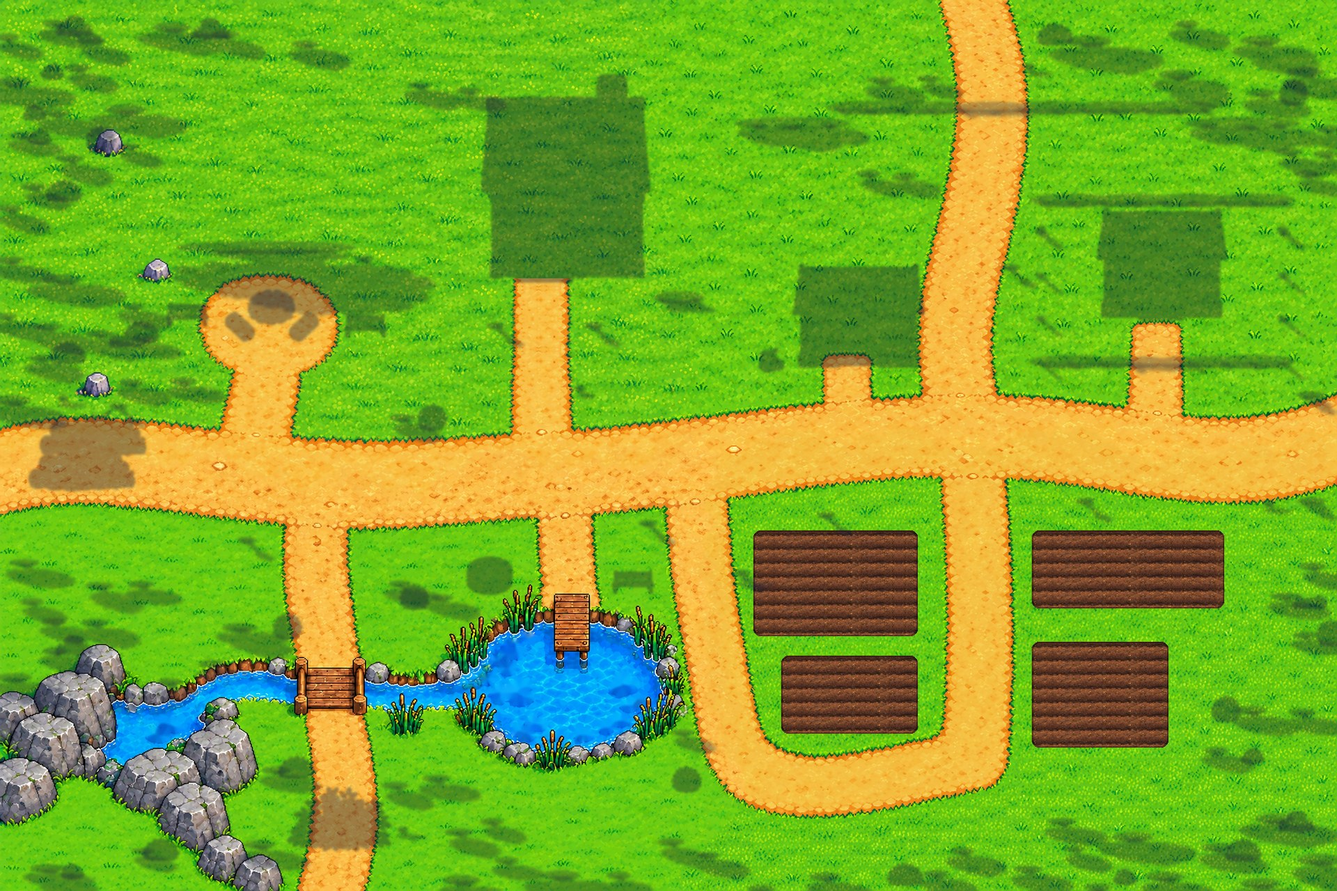
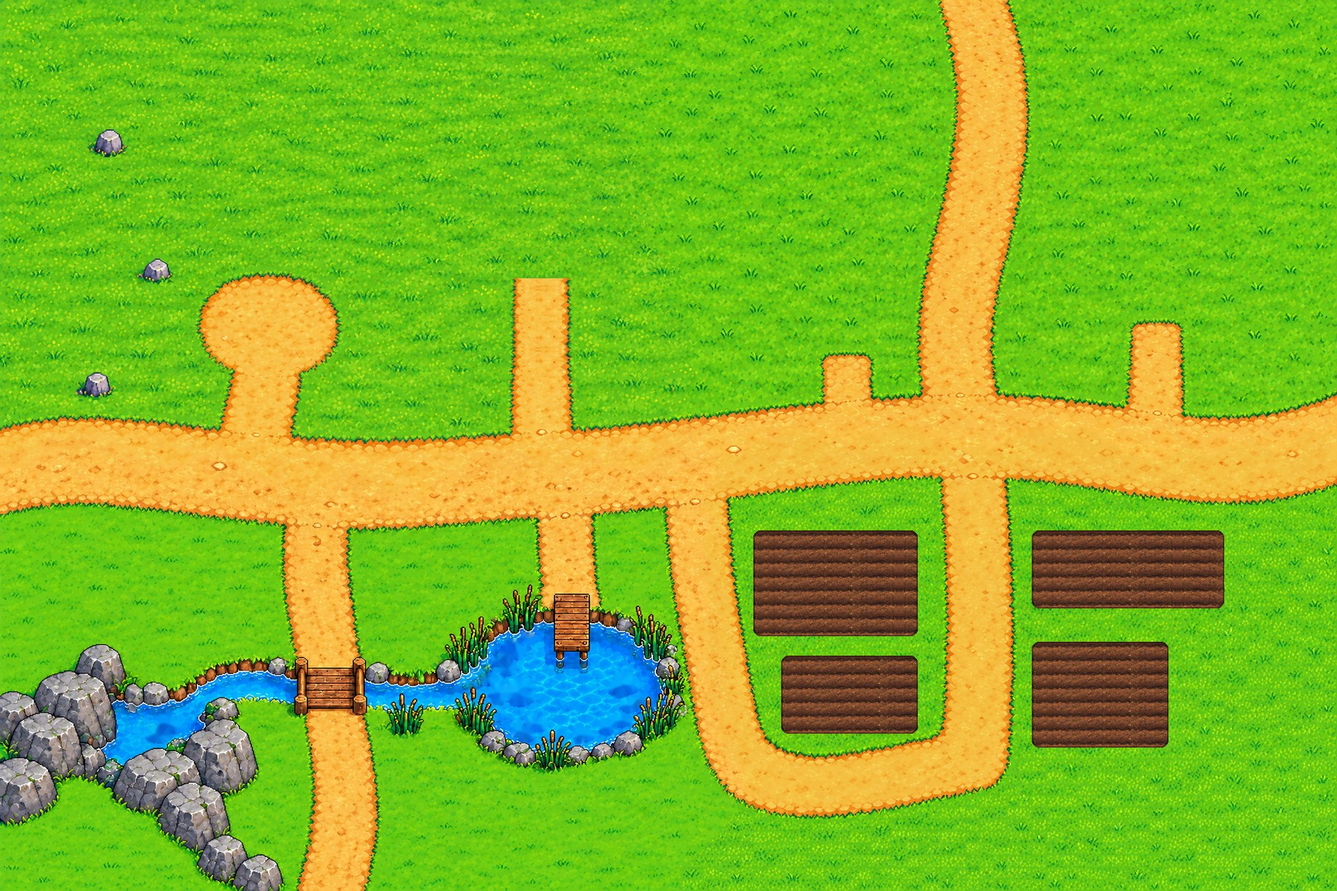
1.18: live shadows on the G9 scene by the hour and the rain (long at dawn and dusk, short at noon, faint moon shadow, none on open water), laid onto the map's ground only when something changes

diff --git a/index.html b/index.html
@@ -121,7 +121,7 @@ window.DEFER_Q=[];window.DEFER_ON=true;window.DEFER_DONE=new Set();
 
 // ===== Lantern Academy (LA) · index.html · formerly "Leah พาเพลิน 2D" =====
 // Files are loaded by name. If a file is missing the game draws a simple stand-in and keeps running.
-const VERSION='Lantern Academy 1.17';
+const VERSION='Lantern Academy 1.18';
 const T=32;
 const FILES={laLogo:'logo.png',ground:'tiles-village.png',cliff:'tiles-cliff.png',water:'tiles-water.png',cobble:'tiles-cobble.png',cave:'tiles-cave.png',
   props:'props-village.png',mprops:'props-mountain.png',cprops:'props-cave.png',dprops:'props-dungeon.png',farm:'props-farm.png',
@@ -3538,7 +3538,7 @@ let G9B=null;
   const m=newMap('farm','town',G9.w,G9.h,79);m.nameKey='g9';m.g9=1;m.g9b=1;m._obj1=1;m.painted='mapG9b';const h=farmSave(),cl=new Set(h.farm.cleared||[]),SH=['g9bA','g9bB'];
   for(let y=0;y<G9.h;y++)for(let x=0;x<G9.w;x++)if(G9.grid[y*G9.w+x]==='1')m.SOLID.add(key(x,y));
   // every standing thing: its own picture, drawn in walking order with the player (cs:0 = no engine shadow, the soft shadows are already in the ground picture)
-  for(const [p,x,by,fl,sw] of G9B.inst){const r=G9B.rects[p];m.objs.push({img:SH[r[4]],sx:r[0],sy:r[1],sw:r[2],sh:r[3],x:x+r[2]/2,y:by,tall:1,cs:0,flip:fl?1:0,g9b:1,swA:sw|0,ph:(x*.37+by*.11)%6.283})}
+  for(const [p,x,by,fl,sw,hz,shd,f0,fw] of G9B.inst){const r=G9B.rects[p];m.objs.push({img:SH[r[4]],sx:r[0],sy:r[1],sw:r[2],sh:r[3],x:x+r[2]/2,y:by,tall:1,cs:0,flip:fl?1:0,g9b:1,swA:sw|0,ph:(x*.37+by*.11)%6.283,hz:hz|0,shOn:shd?1:0,f0:f0|0,fw:fw|0})}
   if(G9B.gate&&G9B.gate.inst&&G9B.gate.inst.length===2){const Gt=G9B.gate,Lf=m.objs[Gt.inst[0]],Rt=m.objs[Gt.inst[1]];for(const [x,y] of Gt.tiles)m.SOLID.delete(key(x,y));   // the gate is never a wall: it swings open as you come up to it
     m._gate={L:Lf,R:Rt,xl:Lf.x-Lf.sw/2,xr:Rt.x+Rt.sw/2,shut:[Lf.sx,Lf.sy,Lf.sw,Lf.sh,Lf.img],open:false,cx:(Gt.x0+Gt.x1)/2,cy:Gt.y}}
   try{for(const [nm,ix] of Object.entries(G9B.tapInst||{}))if(ix>=0&&m.objs[ix])g9bOutlined(m.objs[ix],'_g9bTap_'+nm)}catch(e){}
@@ -3549,10 +3549,10 @@ let G9B=null;
   m.spawnDefault=[G9.spawn[0]*T,G9.spawn[1]*T];m.mailbox={x:G9.mailbox[0]*T,y:G9.mailbox[1]*T};m.shed={x:G9.shed[0]*T,y:G9.shed[1]*T};m.fishSpot={x:G9.fish[0]*T,y:G9.fish[1]*T};m.crate={x:G9B.crate[0]*T,y:G9B.crate[1]*T};m.sign={x:G9.sign[0]*T,y:G9.sign[1]*T-6};
   m.plots=G9.plots.map(([x,y],k)=>({i:200+k,x:x*T,y:y*T}));if(farmUnlocked())G9.extra.forEach(([x,y],k)=>m.plots.push({i:220+k,x:x*T,y:y*T}));
   m.wild=[];G9.wild.forEach(([k,x,y],i)=>{if(cl.has(i))return;const tx=Math.floor(x),ty=Math.floor(y),r=G9B.rects[G9B.wildPic[k]];if(!r||m.SOLID.has(key(tx,ty)))return;
-    const o={img:SH[r[4]],sx:r[0],sy:r[1],sw:r[2],sh:r[3],x:(tx+.5)*T,y:(ty+.9)*T,tx,ty,tall:1,cs:0,wildId:i,wk:k,hp:(k==='bush'||isKid())?1:2};m.objs.push(o);m.wild.push(o);m.SOLID.add(key(tx,ty))});
+    const o={img:SH[r[4]],sx:r[0],sy:r[1],sw:r[2],sh:r[3],x:(tx+.5)*T,y:(ty+.9)*T,tx,ty,tall:1,cs:0,wildId:i,wk:k,hp:(k==='bush'||isKid())?1:2,hz:6,shOn:1};m.objs.push(o);m.wild.push(o);m.SOLID.add(key(tx,ty))});
   if(h.farm.robot){robotImg();const r={img:'_robot',sx:0,sy:0,sw:IMG.robotSheet?64:40,sh:IMG.robotSheet?64:48,x:m.shed.x,y:m.shed.y+18,tall:1,cs:0,robot:1};m.objs.push(r);m.robot={o:r,path:null,job:null,cool:1}}
   for(const [x,y] of G9B.lamps||[])m.glows.push([x,y]);
-  if(IMG.farmArt&&FARM_ART.conv_on){const tx=G9.conv[0],ty=G9.conv[1],r=FARM_ART.conv_on,o={img:'farmArt',sx:r[0],sy:r[1],sw:r[2],sh:r[3],x:tx*T+16,y:ty*T+30,tall:1,cs:0,g9b:1,swA:0,ph:0};m._convL=[[tx,ty]];m.objs.push(o);m._convO=o;m.SOLID.add(key(tx,ty))}
+  if(IMG.farmArt&&FARM_ART.conv_on){const tx=G9.conv[0],ty=G9.conv[1],r=FARM_ART.conv_on,o={img:'farmArt',sx:r[0],sy:r[1],sw:r[2],sh:r[3],x:tx*T+16,y:ty*T+30,tall:1,cs:0,g9b:1,swA:0,ph:0,hz:10,shOn:1};m._convL=[[tx,ty]];m.objs.push(o);m._convO=o;m.SOLID.add(key(tx,ty))}
   return m}}
 // ================= 1.14 G9 · THE SCENE COMES ALIVE (moved in from water-demo.html, where every number below was tested) =================
 // Wind: low things never move; bushes lean 1 px at the top, small trees 2, big trees 3; the foot stays put; gusts travel left to right with calm spells.
@@ -3604,7 +3604,7 @@ function g9WalkThen(x,y,fn){if(!P||!M)return;try{HOLD=null}catch(e){}   /* the t
 // the assembled scene brings its own soft shadows in the ground picture: the engine's leaning shadows are not added on top (they doubled every shadow and hid the moving water)
 {const _bs16=bakeShadows;bakeShadows=function(m){if(m&&m.g9b&&m.ground){m.shadow=m.ground;m.shadowSC=SC;return}return _bs16.apply(this,arguments)}}
 try{Object.assign(TX.th,{fishHow:'เหวี่ยงเบ็ดแล้ว รอจนเห็น ❗ แล้วกดปุ่มอีกครั้งทันที'});if(TX.en)Object.assign(TX.en,{fishHow:'Line is out. Wait for ❗ then press the button again right away'})}catch(e){}
-{const _dv14=drawVFX2;drawVFX2=function(tm){_dv14.apply(this,arguments);try{if(M&&M.g9b&&G9B){g9bGate();g9bConv(tm);g9bMarks(tm);if(!LITE){g9bWaterInit();g9bWater(tm)}}}catch(e){}}}
+{const _dv14=drawVFX2;drawVFX2=function(tm){_dv14.apply(this,arguments);try{if(M&&M.g9b&&G9B){g9bGate();g9bConv(tm);g9bMarks(tm);g9bShadows();if(!LITE){g9bWaterInit();g9bWater(tm)}}}catch(e){}}}
 // ================= 1.15 FARM ART · crops that grow in four steps + the energy converter as a real picture (farm-art.png) =================
 // One small sheet. If it is missing, everything is drawn the old way (32-px crop tiles, the converter in code). Rows on the sheet: carrot, lettuce, tomato, corn, pumpkin;
 // for each: s1..s4 = sprout, young, half-grown, ripe · item = the picked vegetable · bag = its seed bag (item and bag are for menus later).
@@ -3646,6 +3646,30 @@ function openHouseSign(){const h=HOME.get(),lv=houseLv(h);if(lv>=9){modal(`<h2>\
   const u=document.getElementById('hsUp');if(u)u.onclick=()=>{if(houseUpgrade()){closeModal();say('\u{1F3E0} '+t('g9SignDone'));try{farmRefresh()}catch(e){}}}}
 {const cv=document.getElementById('c');if(cv)cv.addEventListener('pointerup',ev=>{try{if(!M||!M.g9b||!M.sign||PAUSE||DLG)return;const r=cv.getBoundingClientRect(),dpr=devicePixelRatio||1,wx=(ev.clientX-r.left)*dpr/SC+camX,wy=(ev.clientY-r.top)*dpr/SC+camY;
     if(Math.abs(M.sign.x-wx)<34&&wy>M.sign.y-54&&wy<M.sign.y+8){ev.stopImmediatePropagation();window._farmTapT=performance.now();g9WalkThen(M.sign.x,M.sign.y+22,openHouseSign)}}catch(e){}},true)}
+// ================= 1.18 G9 · LIVE SHADOWS BY THE HOUR AND THE WEATHER (moved in from water-demo.html) =================
+// The ground picture carries no shadows any more. The game lays them: long in the morning and evening, short at noon, a faint moon shadow at night, weak in rain.
+// Upright things (trees, posts, signs, fences) cast a shadow tipped over from the foot toward the lower right; things that lie or squat (logs, rocks, bushes, crates, buildings)
+// get their own outline slid a few pixels by their real height (MAP_PIPELINE rules 12-14). They are painted onto the map's ground only when something changes
+// (the hour by ten minutes, rain, a thing added or removed), never per frame.
+const G9SH={cast:null,foot:null,sil:{},builds:0};
+function g9bSun(h){const p=(h-6)/12;if(p<=0||p>=1){const d=h>=18?h-18:6-h;return{sx:.5,sy:.36,a:.12*Math.min(1,d),moon:true}}
+  const e=Math.sin(Math.PI*p),L=.45+.65*Math.pow(1-e,1.5),ang=(12+43*p)*Math.PI/180,edge=Math.min(1,p/.08,(1-p)/.08);return{sx:L*Math.cos(ang),sy:Math.max(.36,L*Math.sin(ang)*.6),a:.34*edge,moon:false}}
+function g9bHour(){try{if(typeof GM!=='undefined'&&GM&&GM.hour!=null)return +GM.hour}catch(e){}const d=new Date();return d.getHours()+d.getMinutes()/60}
+function g9bSil(k){const im=IMG[k];if(!im)return null;let c=G9SH.sil[k];if(c&&c._of===im)return c;c=document.createElement('canvas');c.width=im.width;c.height=im.height;c._of=im;const g=c.getContext('2d');g.drawImage(im,0,0);g.globalCompositeOperation='source-in';g.fillStyle='rgb(18,28,58)';g.fillRect(0,0,c.width,c.height);G9SH.sil[k]=c;return c}
+function g9bShadows(){if(!G9B||!G9B.liveShadow||!M.ground)return;const h=g9bHour();let rain=false;try{rain=!!isRainy()}catch(e){}const ho=M.objs.find(o=>o.farmHouse),W=M._w;
+  if(M._baseFor!==M.ground){M._base=document.createElement('canvas');M._base.width=M.ground.width;M._base.height=M.ground.height;M._base.getContext('2d').drawImage(M.ground,0,0);M._baseFor=M.ground;M._shKey=''}
+  const key=[Math.round(h*6),rain?1:0,M.objs.length,ho?ho.img:'',W&&W.ready?1:0].join('|');if(key===M._shKey)return;M._shKey=key;G9SH.builds++;
+  const s=g9bSun(h),k=.5,GW=M.ground.width,GH=M.ground.height,cw=Math.ceil(GW*k),ch=Math.ceil(GH*k);
+  for(const n of ['cast','foot']){if(!G9SH[n])G9SH[n]=document.createElement('canvas');if(G9SH[n].width!==cw||G9SH[n].height!==ch){G9SH[n].width=cw;G9SH[n].height=ch}}
+  const c=G9SH.cast.getContext('2d'),f=G9SH.foot.getContext('2d');for(const x of [c,f]){x.setTransform(1,0,0,1,0,0);x.globalCompositeOperation='source-over';x.clearRect(0,0,cw,ch);x.imageSmoothingEnabled=true}f.fillStyle='rgb(18,28,58)';
+  for(const o of M.objs){let hz=Math.abs(o.hz|0),on=o.shOn,bld=(o.hz|0)<0;if(o.farmHouse){hz=26;on=1;bld=true}if(!on)continue;const sil=g9bSil(o.img);if(!sil)continue;const w=o.sw,hh=o.sh,x0=o.x-w/2,by=o.y;
+    if(hz){const dx=s.sx*hz,dy=bld?1:s.sy*hz+1;if(o.flip)f.setTransform(-k,0,0,k,(x0+dx+w)*k,(by-hh+dy)*k);else f.setTransform(k,0,0,k,(x0+dx)*k,(by-hh+dy)*k);f.drawImage(sil,o.sx,o.sy,w,hh,0,0,w,hh);continue}
+    const SX=s.sx,SY=s.sy;if(o.flip)c.setTransform(-k,0,-SX*k,-SY*k,(x0+w+SX*hh)*k,(by+SY*hh)*k);else c.setTransform(k,0,-SX*k,-SY*k,(x0+SX*hh)*k,(by+SY*hh)*k);c.drawImage(sil,o.sx,o.sy,w,hh,0,0,w,hh);
+    const fw=o.fw||w*.5,fx=x0+(o.f0||0)+fw/2;f.setTransform(k,0,0,k,0,0);f.beginPath();f.ellipse(fx+1.5,by-1,fw*.5+Math.max(3,fw*.12),Math.min(8,Math.max(3,fw*.13))+1,0,0,6.283);f.fill()}
+  if(W&&W.ready)for(const x of [c,f]){x.setTransform(k,0,0,k,0,0);x.globalCompositeOperation='destination-out';x.drawImage(W.clip,W.box[0],W.box[1]);x.globalCompositeOperation='source-over'}   // nothing darkens open water
+  G9SH.now={cast:Math.min(.44,s.a*(rain?.12:1)),foot:s.moon?.24:(rain?.28:.36),sx:s.sx,sy:s.sy,moon:s.moon};
+  const g=M.ground.getContext('2d');g.setTransform(1,0,0,1,0,0);g.globalAlpha=1;g.imageSmoothingEnabled=false;g.drawImage(M._base,0,0);g.imageSmoothingEnabled=true;g.globalAlpha=G9SH.now.cast;g.drawImage(G9SH.cast,0,0,GW,GH);g.globalAlpha=G9SH.now.foot;g.drawImage(G9SH.foot,0,0,GW,GH);g.globalAlpha=1;g.imageSmoothingEnabled=false;
+  if(W){W.src.getContext('2d').drawImage(M.ground,W.box[0],W.box[1],W.w,W.h,0,0,W.w,W.h);W.at=-1}}
 // ================= 1.07 H9 · PAPLERN VILLAGE, NEW SCENE (painted, MAP_SPEC_H9 v1.4) =================
 // A separate map "h9" for now, reached by the GM (warp) and from the G9 farm's east road; the village players use (map "capital") is untouched.
 // Needs map-H9-village.jpg (a sharper map-H9-village-hi.jpg replaces it once uploaded); missing picture -> this map is not offered at all.

diff --git a/test_118_shadow.js b/test_118_shadow.js
@@ -1,0 +1,27 @@
+// test_118_shadow.js — รุ่น 1.18: เงาสดตามเวลาและฝนในฉาก G9 · PORT=... CHROME_EXE=...
+const p=require('/home/claude/.npm-global/lib/node_modules/@mermaid-js/mermaid-cli/node_modules/puppeteer');
+(async()=>{const b=await p.launch({executablePath:process.env.CHROME_EXE||'/home/claude/.cache/puppeteer/chrome/linux-131.0.6778.204/chrome-linux64/chrome',args:['--no-sandbox']});
+const pg=await b.newPage();await pg.setViewport({width:844,height:390,isMobile:true,hasTouch:true,deviceScaleFactor:2});const errs=[];pg.on('pageerror',e=>errs.push(e.message));
+await pg.goto('http://localhost:'+(process.env.PORT||8775)+'/?gm',{waitUntil:'load'});await pg.evaluate(()=>localStorage.clear());await pg.reload({waitUntil:'load'});await new Promise(r=>setTimeout(r,6000));
+const R=await pg.evaluate(async()=>{const o={version:VERSION,live:!!(G9B&&G9B.liveShadow)};const sleep=ms=>new Promise(r=>setTimeout(r,ms));gmMakeSlot();const d=Store.all();S=d.slots[d.cur];startGame();await sleep(1500);document.querySelectorAll('#cr,#title,#picker').forEach(e=>e.classList.add('hide'));goMap('farm');await sleep(1500);
+ try{for(let i=0;i<10&&DLG;i++){if(typeof dlgNext==='function')dlgNext();else DLG=null;await sleep(120)}DLG=null;PAUSE=false}catch(e){}
+ fpsChecks=6;LITE=false;   // this test forces eight shadow rebuilds in two seconds, which would trip the game's automatic smooth mode (average frame over 22 ms in the first 24 s) and switch the water off
+ P.x=G9.fish[0]*T;P.y=(G9.fish[1]-3)*T;await sleep(2500);
+ // one lamp post: how far does its shadow reach, and to which side, by the hour? (dark pixels of the cast layer in a box around its foot)
+ const lamp=M.objs.filter(q=>q.g9b&&q.shOn&&!q.hz&&q.sw<34&&q.sh>70&&q.sh<110).sort((a,b)=>Math.hypot(a.x-900,a.y-700)-Math.hypot(b.x-900,b.y-700))[0];o.lamp={at:[Math.round(lamp.x),Math.round(lamp.y)],size:[lamp.sw,lamp.sh]};
+ // the shadow of one post: length from the sun of that hour, and is the cast layer really dark at the middle and near the tip of where it should lie?
+ const measure=()=>{const n=G9SH.now,c=G9SH.cast.getContext('2d'),A=u=>c.getImageData(Math.round((lamp.x+n.sx*lamp.sh*u)*.5),Math.round((lamp.y+n.sy*lamp.sh*u-1)*.5),1,1).data[3];return{lengthPx:Math.round(n.sx*lamp.sh),darkAtMiddle:A(.5)>60,darkNearTip:A(.8)>40,strength:+n.cast.toFixed(2),foot:n.foot,moon:n.moon}};
+ o.byHour={};for(const hr of [6.5,8,10,12,14,16,17.5,21]){GM.hour=hr;await sleep(260);o.byHour[hr]=measure()}
+ // open water stays clear of shadows; a low thing keeps its shadow at every hour
+ GM.hour=9;await sleep(260);const W=M._w;let onW=0,nW=0;if(W&&W.ready){const c=G9SH.cast.getContext('2d'),f=G9SH.foot.getContext('2d');for(const [x,y] of G9B.water.deep.filter((q,i)=>i%2===0)){nW++;if(c.getImageData(Math.round(x*.5),Math.round(y*.5),1,1).data[3]>8||f.getImageData(Math.round(x*.5),Math.round(y*.5),1,1).data[3]>8)onW++}}o.shadowOnOpenWater=[onW,nW];
+ const b0=G9SH.builds;await sleep(3000);o.rebuildsIn3sWhenNothingChanges=G9SH.builds-b0;
+ const low=M.objs.find(q=>q.g9b&&q.hz>5&&q.hz<12&&q.sw>40);const lowAt=()=>G9SH.foot.getContext('2d').getImageData(Math.round((low.x+low.sw/2-4)*.5),Math.round((low.y-6)*.5),1,1).data[3];o.lowThingShadow={};for(const hr of [8,12,22]){GM.hour=hr;await sleep(260);o.lowThingShadow[hr]=lowAt()}
+ // the ground really shown is darker where a shadow lies, and water still moves on screen
+ GM.hour=10;await sleep(300);const g=M.ground.getContext('2d'),bb=M._base.getContext('2d');const px=[Math.round(lamp.x+G9SH.now.sx*lamp.sh*.5),Math.round(lamp.y+G9SH.now.sy*lamp.sh*.5-1)];const lum=c=>{const q=c.getImageData(px[0]-3,px[1]-2,7,5).data;let s=0;for(let i=0;i<q.length;i+=4)s+=q[i]+q[i+1]+q[i+2];return s/(q.length/4*3)};o.groundBesideTheLamp={shown:Math.round(lum(g)),bare:Math.round(lum(bb)),sameCanvasAsDrawn:M.shadow===M.ground};
+ const cvs=document.getElementById('c'),sx=cvs.getContext('2d');if(M._w){M._w.next=1e9;M._w.fish.length=0}await sleep(600);const pts=G9B.water.deep.filter((q,i)=>i%3===0).map(([x,y])=>[Math.round((x-camX)*SC),Math.round((y-camY)*SC)]).filter(([x,y])=>x>4&&y>4&&x<cvs.width-4&&y<cvs.height-4);const snap=()=>pts.map(([x,y])=>Array.from(sx.getImageData(x,y,1,1).data).join());const s0=snap(),chg=new Set();for(let k=0;k<5;k++){await sleep(300);snap().forEach((v,i)=>{if(v!==s0[i])chg.add(i)})}o.waterOnScreen=[chg.size,pts.length];o.smoothModeOn=LITE;
+ let n=0;const t0=performance.now();await new Promise(res=>{const f=()=>{n++;if(performance.now()-t0<3000)requestAnimationFrame(f);else res()};requestAnimationFrame(f)});o.fps=Math.round(n/3);
+ const t1=performance.now();M._shKey='';g9bShadows();o.oneRebuildMs=Math.round(performance.now()-t1);GM.hour=10;P.x=G9.door[0]*T+10;P.y=(G9.door[1]+3)*T;await sleep(2500);return o});
+await pg.evaluate(()=>document.querySelectorAll('#hud,#act,#dlg').forEach(e=>e.classList.add('hide')));
+for(const hr of [8,12,17,21]){await pg.evaluate(async h=>{GM.hour=h;await new Promise(r=>setTimeout(r,500))},hr);await pg.screenshot({path:'sh_'+hr+'.png'})}
+await pg.evaluate(()=>{GM.hour=null});
+console.log(JSON.stringify(R));console.log('errors',errs.length,errs.slice(0,4));await b.close()})();

diff --git a/sw.js b/sw.js
@@ -1,5 +1,5 @@
-// Lantern Academy 1.17 · Leah-PP service worker: network first (always newest when online), cache as backup when offline.
-const CACHE='lantern-v94';
+// Lantern Academy 1.18 · Leah-PP service worker: network first (always newest when online), cache as backup when offline.
+const CACHE='lantern-v95';
 const FILES=['./','index.html','manifest.json','questions-index.json','q-math-6.json','q-math-7.json','q-math-8.json','q-english-6.json','q-english-7.json','q-english-8.json','q-thai-6.json','q-thai-7.json','q-thai-8.json','q-chinese-6.json','q-chinese-7.json','q-chinese-8.json','q-general-6.json','q-general-7.json','q-general-8.json','leah-walk.png','leah-idle.png','dad-idle.png','mom-idle.png','peb-idle.png','nuan-idle.png','cave-floor.jpg','cave-wall.jpg','tiles-cave.png','tiles-village.png','tiles-hedge.png','obj-fountain.png','props-village.png','props-cave.png','props-dungeon.png','buildings-village.png','tiles-house.png','furniture.png','play.html','kid-curly2-idle.png','kid-curly2-stand.png','kid-curly2-walk.png','play.webmanifest','firebase-config.js','tiles-cliff.png','tiles-water.png','tiles-cobble.png','props-mountain.png','props-farm.png','obj-lightstone.png','obj-lightstone-plaza.png','obj-cave-crystal.png','obj-rockfall.png','obj-bridge-rope.png','obj-bridge-stone.png','obj-pier.png','obj-fountain-big.png','obj-fountain-old.png','capital-greybox.png','bld-academy.png','bld-lanna-house.png','bld-lanna-house2.png','bld-market-stall.png','obj-lantern-shrine.png','obj-bridge-arch.png','obj-stairs-stone.png','obj-pier-teak.png','kid-braids-idle.png','kid-braids-stand.png','kid-braids-walk.png','kid-ponytail-idle.png','kid-ponytail-stand.png','kid-ponytail-walk.png','kid-bob-idle.png','kid-bob-stand.png','kid-bob-walk.png','kid-curly-idle.png','kid-curly-stand.png','kid-curly-walk.png','kid-blond-idle.png','kid-blond-stand.png','kid-blond-walk.png','kid-spiky-idle.png','kid-spiky-stand.png','kid-spiky-walk.png','icon-192.png','icon-512.png','icon-maskable-512.png','apple-touch-icon.png','favicon-32.png','logo.png','title-art.jpg','farm-greybox.png','map-capital-a.jpg','obj-fountain-capa.png','map-capital-royal.jpg','obj-statue-capital.png','signs-capital.png','map-royal-plaza.jpg','signs-royal-plaza.png','map-cave-mouth.jpg','hunt-SW.jpg','hunt-NW.jpg','hunt-NE.jpg','hunt-SE.jpg','mon-slime.png','mon-bat.png','mon-mushbug.png','mon-golem.png','icons-drops.png','card-front.png','card-back.png','kit-town-buildings.png','kit-town-nature.png','kit-town.png','kit-town.json','tiles-town-meadow.png','tiles-town-water.png','portraits-town.png','crystal-paplern.png','stamps.png','farm-house-1.png','farm-house-2.png','farm-house-3.png','map-G9-home-farm.jpg','map-H9-village.jpg','objects-1.png','map-G9b-ground.jpg','g9b-sprites.png','g9b-plants.png','g9b-scene.json','farm-art.png'];
 self.addEventListener('install',e=>{self.skipWaiting();e.waitUntil(caches.open(CACHE).then(c=>Promise.all(FILES.map(f=>c.add(f).catch(()=>null)))));self.skipWaiting()});
 self.addEventListener('activate',e=>{e.waitUntil(self.clients.claim());e.waitUntil(caches.keys().then(ks=>Promise.all(ks.filter(k=>k!==CACHE).map(k=>caches.delete(k)))));self.clients.claim()});

diff --git a/build_g9_game.py b/build_g9_game.py
@@ -8,7 +8,7 @@ import os; os.makedirs(OUT, exist_ok=True)
 T = 32; GW, GH = 60, 40
 sc = json.load(open(SRC + '/scene.json')); atlas = Image.open(SRC + '/sprites.png').convert('RGBA'); W, H = sc['w'], sc['h']
 import base64, io
-gnd = np.asarray(Image.open(SRC + '/ground.png').convert('RGB')).copy()
+gnd = np.asarray(Image.open(SRC + '/ground_plain.png').convert('RGB')).copy()      # no shadows in the picture: the game lays them itself, by the hour and the weather
 _h = cv2.cvtColor(gnd, cv2.COLOR_RGB2HSV); _hh, _ss, _vv = _h[..., 0].astype(int), _h[..., 1].astype(int), _h[..., 2].astype(int)
 wat = cv2.morphologyEx(((_hh > 88) & (_hh < 125) & (_ss > 90) & (_vv > 120)).astype(np.uint8), cv2.MORPH_OPEN, np.ones((3, 3)))
 _n, _lab, _st, _c = cv2.connectedComponentsWithStats(wat, connectivity=8); comps = [i for i in range(1, _n) if _st[i][4] > 400]
@@ -50,7 +50,7 @@ for i in sc['inst']:
     if i['n'] in TAP: im = outlined(im); x -= 2; by += 2
     pid, fl = pic_id(im)
     if pid == len(pic_name): pic_name.append(i['n'])
-    inst.append({'n': i['n'], 'p': pid, 'x': x, 'by': by, 'w': im.width, 'h': im.height, 'fl': fl, 'f': i['f'], 'lv': i['lv'], 'sw': {'mid': 1, 'small': 2, 'high': 3}.get(i['lv'], 0) if i['n'] not in ('thicket',) else 0})
+    inst.append({'n': i['n'], 'p': pid, 'x': x, 'by': by, 'w': im.width, 'h': im.height, 'fl': fl, 'f': i['f'], 'lv': i['lv'], 'hz': (-22 if i['n'] in ('shed', 'hut') else i.get('hz', 0)), 'sh': i.get('sh', 0), 'sw': {'mid': 1, 'small': 2, 'high': 3}.get(i['lv'], 0) if i['n'] not in ('thicket',) else 0})
 for (px_, py_, pim) in PADS: pad_list.append([len(pics), px_, py_]); pics.append(pim); pic_name.append('pad')
 # the yard gate swung open (the two leaves use this picture, the right one mirrored)
 _O2 = Image.open('/home/claude/lib2/objects-2.png').convert('RGBA'); _P2 = json.load(open('/home/claude/lib2/objects-2.json')); _r = _P2['gate']; GATE_OPEN = len(pics); pics.append(_O2.crop((_r[0], _r[1], _r[0] + _r[2], _r[1] + _r[3]))); pic_name.append('gateOpen')
@@ -151,7 +151,7 @@ P['locks'] = {'w': {'at': [round((max(cxy(l)[0] + l['w'] / 2 for l in lg) + 26) 
 P['lamps'] = [[round(cxy(l)[0]), round(l['by'] - l['h'] + 12)] for l in find('lamp') + find('pillar')]
 P['wildPic'] = wild
 P['grid'] = ''.join('1' if v else '0' for v in solid.reshape(-1))
-P['rects'] = rects; P['inst'] = [[i['p'], i['x'], i['by'], i['fl'], i['sw']] for i in inst]
+P['rects'] = rects; P['inst'] = [[i['p'], i['x'], i['by'], i['fl'], i['sw'], i['hz'], i['sh'], i['f'][0], i['f'][1]] for i in inst]; P['liveShadow'] = 1
 gi = [k for k, i in enumerate(inst) if i['n'] == 'gateShut']; gl = [inst[k] for k in gi]
 P['gate'] = {'inst': gi, 'open': GATE_OPEN, 'tiles': GATE_TILES, 'x0': min(i['x'] for i in gl), 'x1': max(i['x'] + i['w'] for i in gl), 'y': gl[0]['by']}
 P['cellPic'] = CELLS; P['tapInst'] = {n_: next((k for k, i in enumerate(inst) if i['n'] == n_), -1) for n_ in ('crate', 'mailbox', 'shed', 'board')}

diff --git a/HANDOFF_S13.md b/HANDOFF_S13.md
@@ -1,10 +1,11 @@
-# HANDOFF S13 — Lantern Academy (4 ต.ค. 2569 · เกมรุ่น 1.17)
+# HANDOFF S13 — Lantern Academy (4 ต.ค. 2569 · เกมรุ่น 1.18)
 
 อ่านต่อจาก `HANDOFF_S12.md` · ลำดับความสำคัญเอกสาร: `MAP_PIPELINE.md` > ไฟล์นี้ > `PHASE1_PLAN.md` > `MAP_SPEC_G9.md` > `MAP_SPEC_H9.md` > `STORY.md`
 
 ## สถานะ
 - เกม: https://phoneyjung.github.io/Leah-PP/ · โหมด GM: `?gm` · repo: https://github.com/phoneyjung/Leah-PP · อัปไฟล์: https://github.com/phoneyjung/Leah-PP/upload/main
 - **พื้นใหม่ไม่มีดอกไม้ (อยู่ในรุ่น 1.17 ที่อัป 4 ต.ค.):** เจ้าของส่งภาพ 5 ภาพ เลือก 4 (`art-G9b-ground-*.png`) · หญ้าเรียบ · ดอกไม้เป็นชิ้นแยก 168 ดอก 60 กลุ่ม วางตามกติกา (ใกล้ต้นไม้ พุ่ม รั้ว เป็นหลัก) · กอหญ้าใช้สีตามสนามหญ้าอัตโนมัติ · แปลงดินของเราวางทับแปลงที่ AI วาด (ของ AI มีรอยเส้นที่ขอบล่าง) · ภาพพื้นของเกมเหลือ 713 KB (เดิม 973)
+- **รุ่น 1.18 (เงาสดตามเวลาและฝน เข้าเกมแล้ว):** ภาพพื้นของเกมไม่มีเงาอบ (`build_g9_game.py` ใช้ `ground_plain.png` · `liveShadow:1` ใน json) · เกมวาดเงาเองลงภาพพื้นของแผนที่เฉพาะเมื่อมีอะไรเปลี่ยน (เวลาเลื่อน 10 นาที ฝน ของเพิ่ม/หาย ระดับบ้าน) ไม่วาดทุกเฟรม · เงาเสาสูง 88: 83 px ตอน 6:30 → 33 ตอนเที่ยง → 51 ตอน 17:30 · กลางคืนเงาจันทร์จาง · ฝนเงาทอดเหลือ 12% · ไม่มีเงาบนผิวน้ำ · `g9bShadows` `g9bSun` · ชุดทดสอบ `test_118_shadow.js` · เวลาของเกม = นาฬิกาจริงของเครื่อง (GM ตั้งชั่วโมงเองได้) · **ยังไม่มีในเกม:** หิมะ ร้อนจัด เมฆ (มีแค่ในหน้าลอง) · หมายเหตุ: เกมเปิดโหมดลื่นเองถ้า 24 วินาทีแรกเฟรมเฉลี่ยช้ากว่า 22 ms แล้วน้ำกับลมจะหยุด
 - **รุ่น 1.17:** ปุ่ม "ตี" (และ Space/Enter) ทำสิ่งที่อยู่ใกล้ในฟาร์ม รูปและคำบนปุ่มเปลี่ยนตาม: ปลูก รดน้ำ เก็บ ถาง ขาย ร้านฟาร์ม จดหมาย ตกปลา บ้าน (`g9bNear` `g9bButton`) · ป้ายหน้าบ้านกดได้: เดินไปถึงแล้วเปิดหน้าต่างขยายบ้าน บอกขั้นถัดไปกับราคา (`openHouseSign` ใช้ `houseUpgrade` เดิม) มีขอบทอง · เงาตัวละครในฉากนี้เป็นเงานุ่มใต้เท้า ไม่ใช่เงาเอียงยาว · ยืนยันแล้วว่าของสูงจางเมื่อตัวละครอยู่หลัง (เครื่องยนต์เกมทำอยู่แล้ว: 0.42 เมื่ออยู่หลัง 1 เมื่ออยู่หน้า · ที่เคยรายงานว่ายังไม่มีนั้นผิด) · ชุดทดสอบ `test_117_button.js`
 - **รุ่น 1.16 (แก้ตามที่เจ้าของเดินตรวจ 1.15):** แตะของหรือคนจากไกล ตัวละครเดินไปถึงก่อนแล้วจึงเปิด (`g9WalkThen` · กล่อง โรงเก็บของ ตู้จดหมาย และตัวละครในทุกฉาก) · ขอบทองเรียบรอบของที่กดได้แทนประกาย (วาดตอนสร้างฉาก ไม่อบลงไฟล์) · จุดปลูกเป็นบล็อกชัด ๆ (แห้ง/เปียก) · แปลงขอบมนเรียบ มีกอหญ้าทับขอบ · ตกปลาแบบง่ายทุกคน (เหวี่ยง → รอ ❗ → กดอีกครั้ง ได้ปลา · หน้าต่างกด 2 วิ เด็ก 1.5 วิ ผู้ใหญ่) · ประตูลานเปิดแล้วบานไม่ไขว้ · **ปิดเงาเอียงของเครื่องยนต์เกมในฉากแบบประกอบ** (`bakeShadows`): เดิมเงาซ้อนสองชั้น และเกมวาดสำเนาพื้นที่อบเงาไว้ ทำให้ **น้ำขยับของรุ่น 1.14–1.15 ไม่ขึ้นจอจริง** (ชุดทดสอบเดิมวัดผิดที่ ตอนนี้วัดจากจอ: เปลี่ยน 102 จาก 107 จุด) · พบและแก้: หลังแตะกล่อง/โรงเก็บของ เกมคิดว่านิ้วยังกดค้าง (HOLD ไม่ถูกล้าง) · ชุดทดสอบใหม่ `test_116_walkfirst.js` (แตะจอจริง 4 แบบ) · `test_110` ช่อง tapOpens เป็น false โดยตั้งใจ (ต้องเดินไปก่อน)
 - **รุ่น 1.15 (ภาพฟาร์มชุดใหม่ `farm-art.png` 94 KB · 32 ภาพ):** พืชผักโต 4 ระยะ (หว่าน → ต้นอ่อน → ต้นเล็ก → ครึ่งต้น → สุก) ใช้กับผักกาด แครอท มะเขือเทศ ฟักทอง · สตรอว์เบอร์รียังใช้ภาพเก่า (ไม่มีแถวในแผ่น) · แถวข้าวโพดมีภาพพร้อมแต่เกมยังไม่มีข้าวโพด (รอเจ้าของตัดสิน: เปลี่ยนสตรอว์เบอร์รีเป็นข้าวโพดตามสเปก หรือวาดแถวสตรอว์เบอร์รีเพิ่ม) · เครื่องแปลงพลังงานเป็นภาพจริง 2 สถานะ ยืนในฉาก ชนได้ · ไฟล์หายแล้ววาดแบบเดิม · ต้นฉบับ: `art-crops.png` `art-converter.png` · ชุดทดสอบ `test_115_farmart.js` · หมายเหตุ: `test_106` ช่อง convTileFree จะเป็น false เพราะช่องของเครื่องแปลงตั้งใจให้ชนได้แล้ว (การเติมตะเกียงยังผ่าน 0.8)
